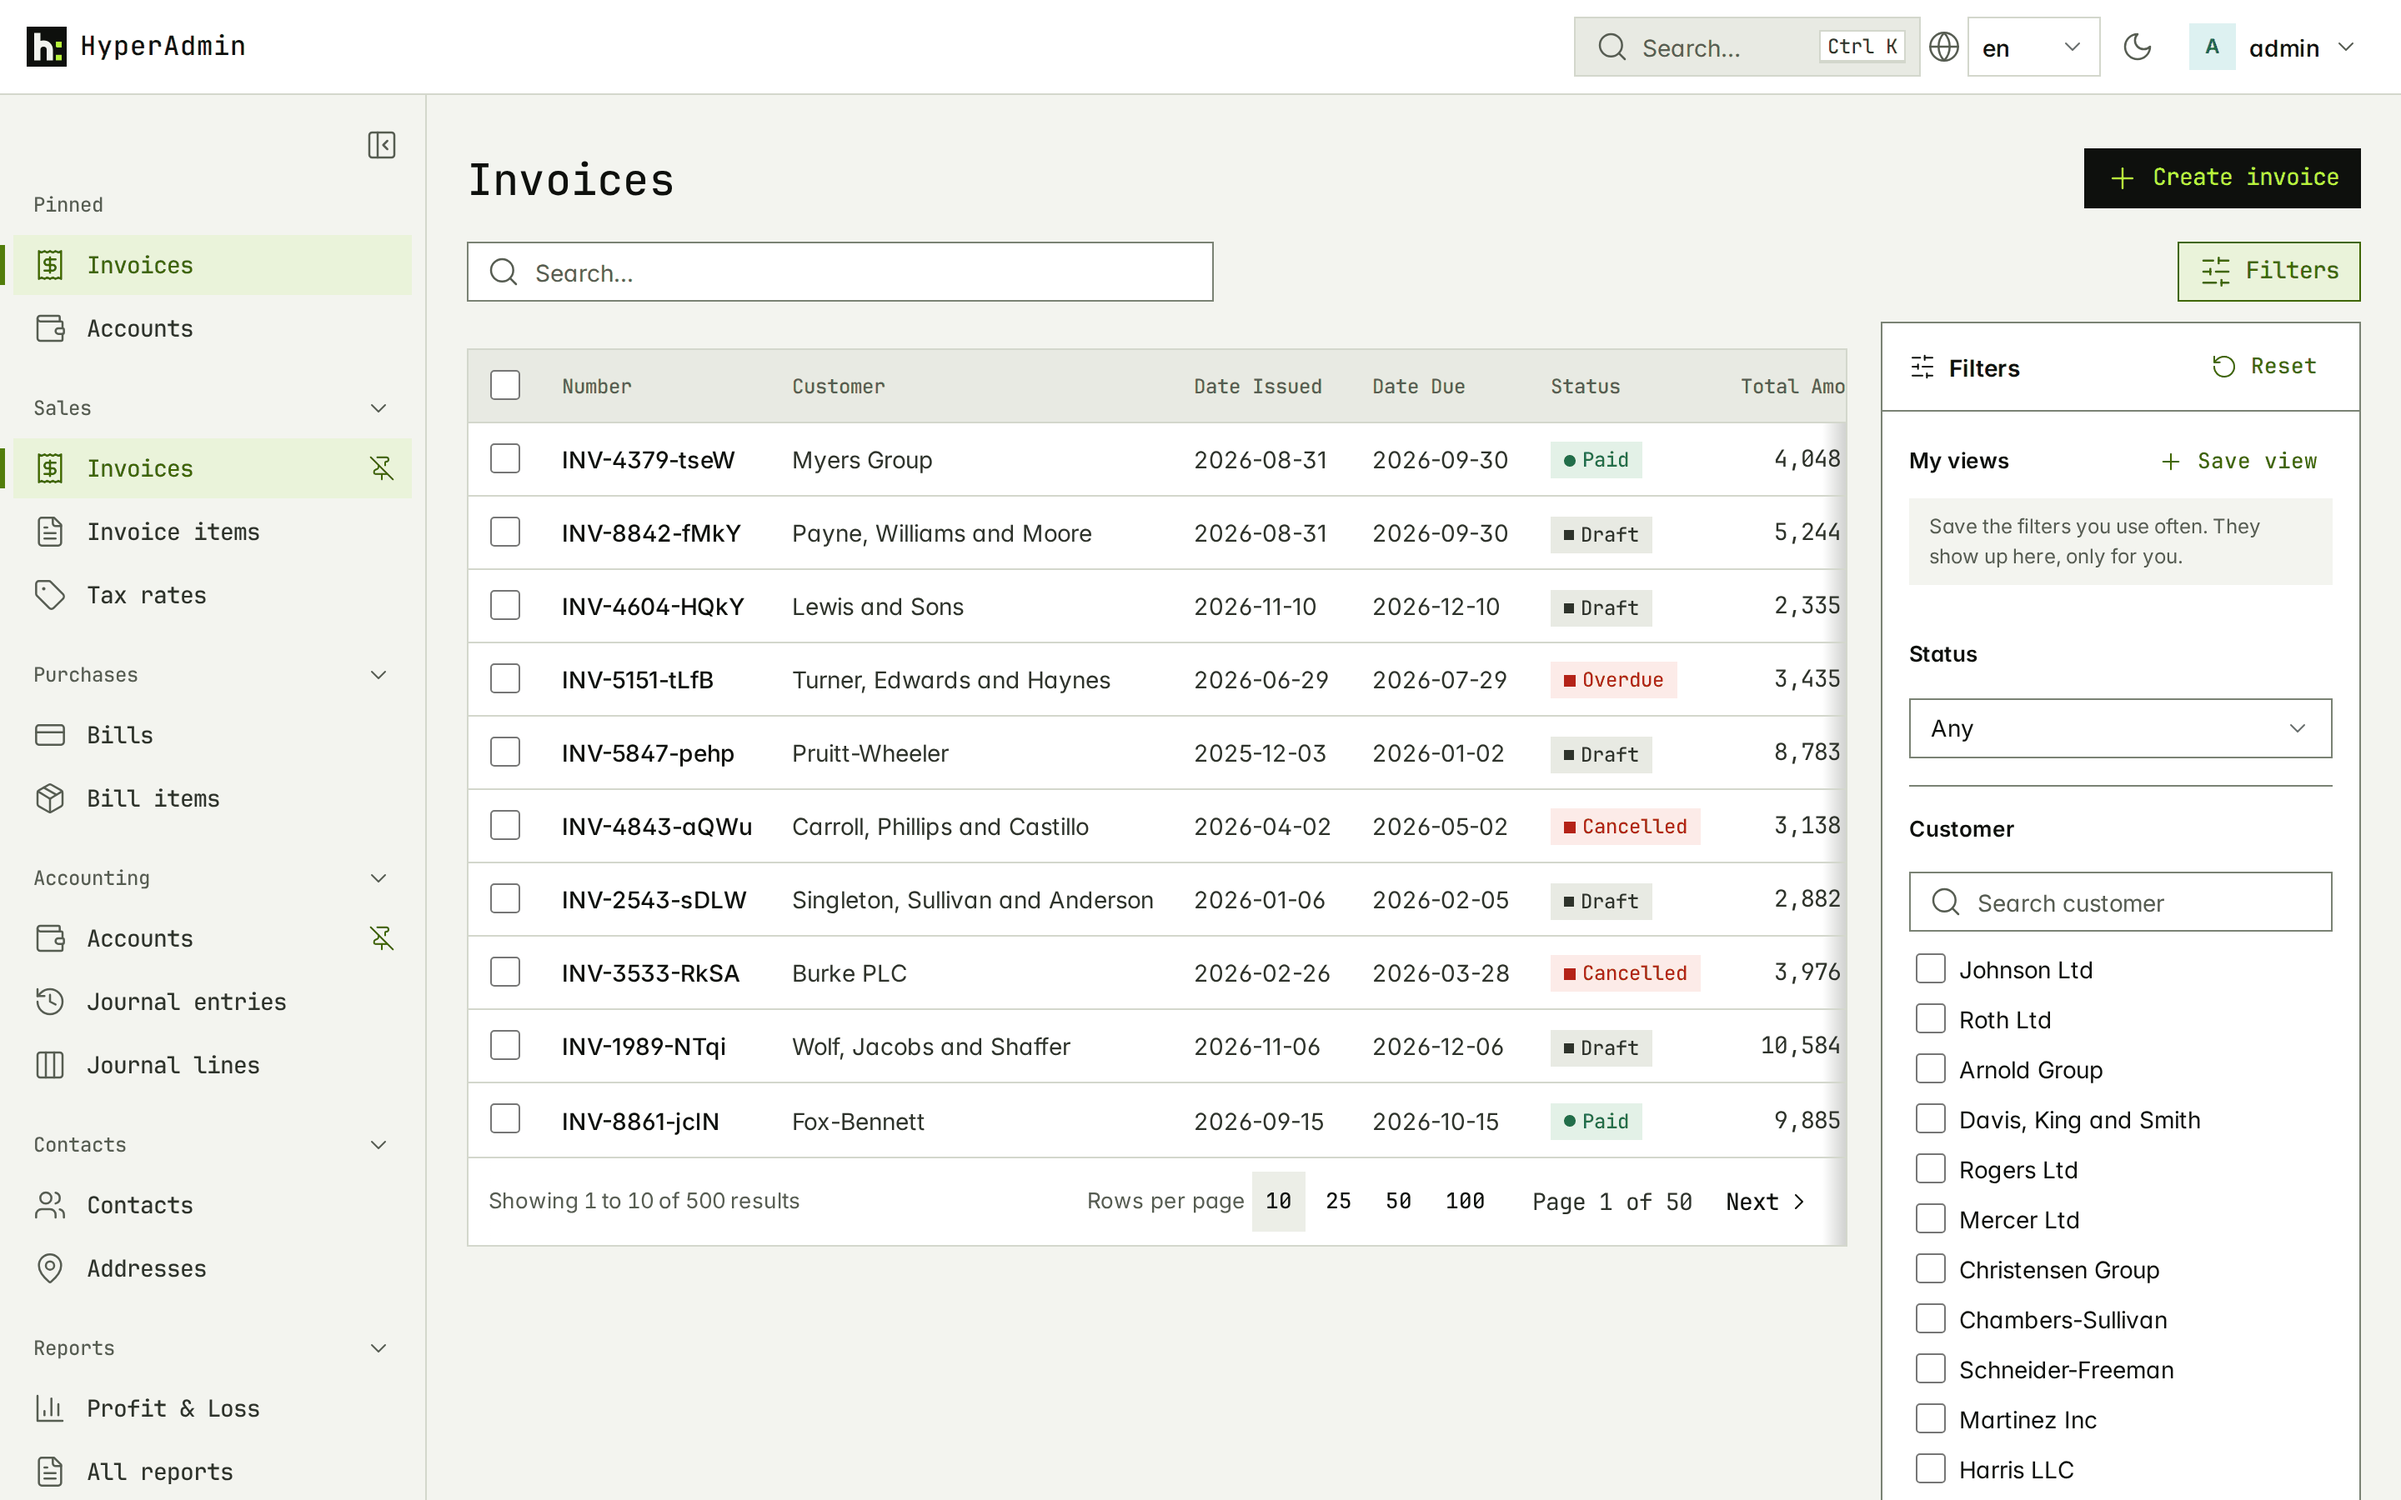
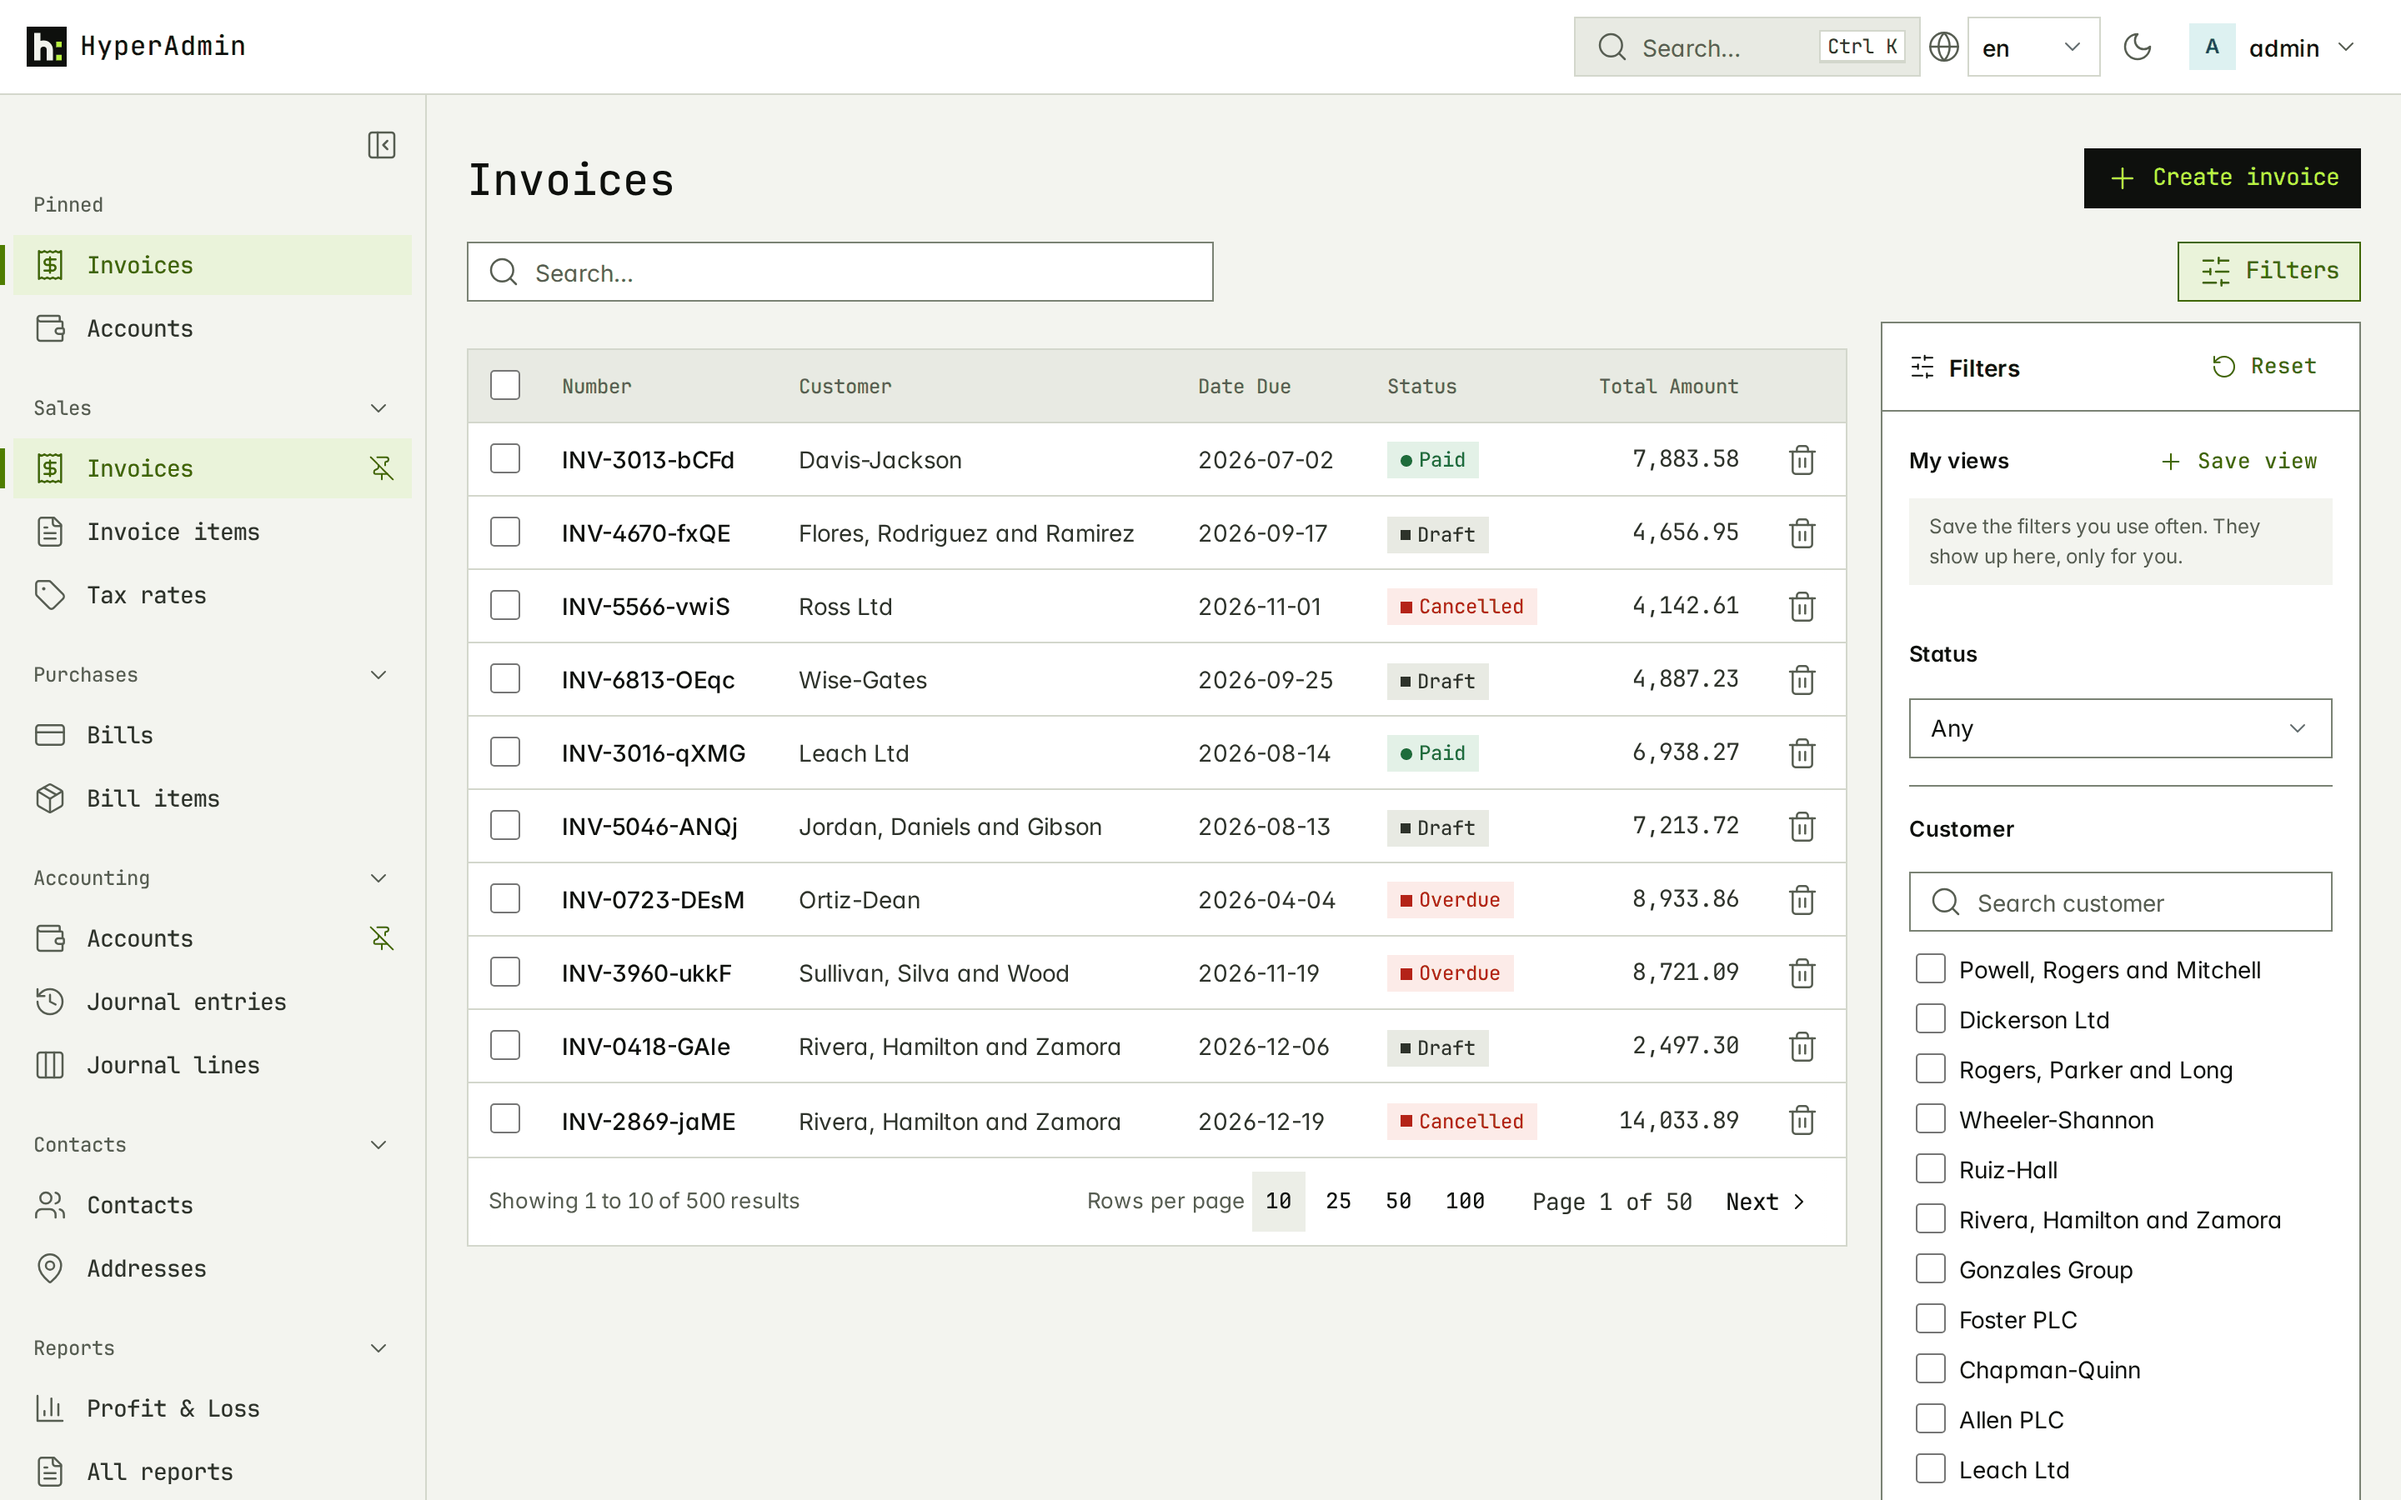
docs: drop the date issued column so the invoice list fits the screenshot

diff --git a/examples/erp/loadtest/endpoints.py b/examples/erp/loadtest/endpoints.py
@@ -47,7 +47,7 @@ WRITE_TASK_WEIGHTS: dict[str, int] = {
 # Sortable columns per model (valid sort_by values).
 SORT_FIELDS: dict[str, tuple[str, ...]] = {
     "contact": ("name", "email", "contact_type"),
-    "invoice": ("number", "date_issued", "date_due", "status"),
+    "invoice": ("number", "date_due", "status"),
     "journalline": ("debit", "credit"),
 }
 

diff --git a/examples/erp/sales/admin.py b/examples/erp/sales/admin.py
@@ -32,7 +32,6 @@ class InvoiceAdmin(ModelAdmin):
     list_display: ClassVar[list[str]] = [
         "number",
         "customer",
-        "date_issued",
         "date_due",
         "status",
         "total_amount",

diff --git a/CHANGELOG.md b/CHANGELOG.md
@@ -335,6 +335,10 @@ Version numbers follow [PEP 440](https://peps.python.org/pep-0440/) (for example
 - `get_display_name` skips attributes that can't load on a detached row (#773).
 
 ### Documentation
+- **The ERP invoice list fits next to the filter panel.** The example's Invoices list drops the
+  Date Issued column (Date Due, its filter and the detail and edit pages keep the dates), so the
+  README hero shot and the other invoice-list screenshots show Total Amount whole instead of a
+  clipped, scrolling table. The ERP load test no longer sorts invoices by issue date.
 - **Demo load-test card re-recorded after the SQLite search fix.** The demo video and the
   load-test screenshot show the current SQLite figures (1.2 million rows, 20 users, 30 s, second
   of two runs): reads 46 req/s with list and detail at a 9 ms median, search 110 ms median and
